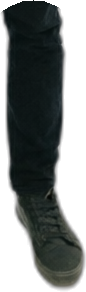
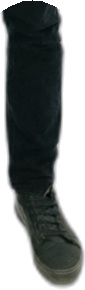
Stop the bent knee reading as crossed limbs
The knee looked like a cross at a bend. Both leg pieces carried a cap centred on
the knee, so the thigh kept a rounded stub below the joint - and that stub does
not rotate with the shin. At a bend it went on pointing straight down while the
shin pointed off at an angle, and the two read as two crossed limbs rather than
one folded leg.

The thigh now stops square just past the knee and the shin owns the joint. The
shin's material around its own pivot is effectively a disc (the round cap above,
the leg's own width below), so its silhouette barely changes as it rotates and it
covers the thigh's cut end at any angle. The cap radius is now just over half the
leg's width rather than well over it, so it does not stand proud of the leg
either.

That is the third attempt at this joint, and the docstring now records all three
so the next person does not walk back into the first two: butting the pieces
together tears a gap, overlapping square ends pokes corners out.

Claude-Session: https://claude.ai/code/session_01JHSussxAHhf65WzM17eAJR

diff --git a/tools/build_assets.py b/tools/build_assets.py
@@ -104,9 +104,10 @@ PART_POLYS: dict[str, list[tuple[int, int]]] = {
     # legs are filled in below: their knee ends need arcs, not corners
 }
 
-# Radius of the round cap both leg pieces carry at the knee, in source px. It is a
-# little over half the leg's width there.
-KNEE_CAP = 48
+# Radius of the shin's cap at the knee, in source px. Just over half the leg's
+# width there (~45), so it covers the thigh's cut end at any bend without standing
+# proud of the leg's own silhouette.
+KNEE_CAP = 46
 
 
 def _arc(cx: int, cy: int, r: int, a0: float, a1: float, steps: int = 14):
@@ -121,32 +122,35 @@ def _arc(cx: int, cy: int, r: int, a0: float, a1: float, steps: int = 14):
 
 
 def _leg_polys() -> dict[str, list[tuple[int, int]]]:
-    """Thigh and shin, each capped with a disc centred on the knee.
+    """Thigh cut square at the knee; shin carrying the whole joint as a round cap.
 
-    A bent knee tears a gap open on the outside of the joint unless the two pieces
-    overlap across it - but overlapping them with square ends just swaps the gap
-    for black corners poking out as the shin swings, the same way square shoulders
-    sprouted wings. A cap centred exactly on the pivot has a silhouette that does
-    not change as the piece rotates, so it can neither tear nor protrude. The
-    overlap costs nothing visually because the trousers are flat black.
+    Getting this joint right took three goes:
+
+    1. Butting the pieces together tears a gap open on the outside of a bend.
+    2. Overlapping them with square ends swaps the gap for black corners poking
+       out as the shin swings - the same way square shoulders sprouted wings.
+    3. Giving *both* pieces a cap looks like a cross. The thigh's stub below the
+       knee does not rotate with the shin, so at a bend it points straight down
+       while the shin points off at an angle, and the two read as crossed limbs.
+
+    What works: the thigh stops at the knee, and the shin owns the joint. The
+    shin's material near its own pivot is effectively a disc - the round cap above
+    plus the leg's own width below - so its silhouette barely changes as it
+    rotates, and it covers the thigh's cut end at any angle. The shin draws over
+    the thigh, and the trousers are flat black, so the overlap is invisible.
     """
     out: dict[str, list[tuple[int, int]]] = {}
     for side, (kx, ky) in (("l", JOINTS["knee_l"]), ("r", JOINTS["knee_r"])):
         inner = _LEG_SPLIT
         outer = 344 if side == "l" else 546
-        # thigh: hip down to a cap bulging below the knee
-        thigh = [(min(outer, inner), 690), (max(outer, inner), 690)]
-        if side == "l":
-            thigh = [(344, 690), (inner, 690), (inner, ky - 4)]
-            thigh += _arc(kx, ky, KNEE_CAP, 0, 180)
-            thigh += [(344, ky - 4)]
-        else:
-            thigh = [(inner, 690), (546, 690), (546, ky - 4)]
-            thigh += _arc(kx, ky, KNEE_CAP, 0, 180)[::-1]
-            thigh += [(inner, ky - 4)]
-        out[f"thigh_{side}"] = thigh
+        lo, hi = min(inner, outer), max(inner, outer)
+        # thigh: hip straight down to a flat cut a few px past the knee, so there
+        # is no stub left sticking out when the shin swings away
+        out[f"thigh_{side}"] = [
+            (lo, 690), (hi, 690), (hi, ky + 6), (lo, ky + 6),
+        ]
 
-        # shin: a cap bulging above the knee, then down to the shoe
+        # shin: round cap centred on the knee, then down to the shoe
         shin = _arc(kx, ky, KNEE_CAP, 180, 360)
         if side == "l":
             shin += [(inner, 1000), (inner, 1140), (330, 1140), (330, 1060), (340, 960)]
